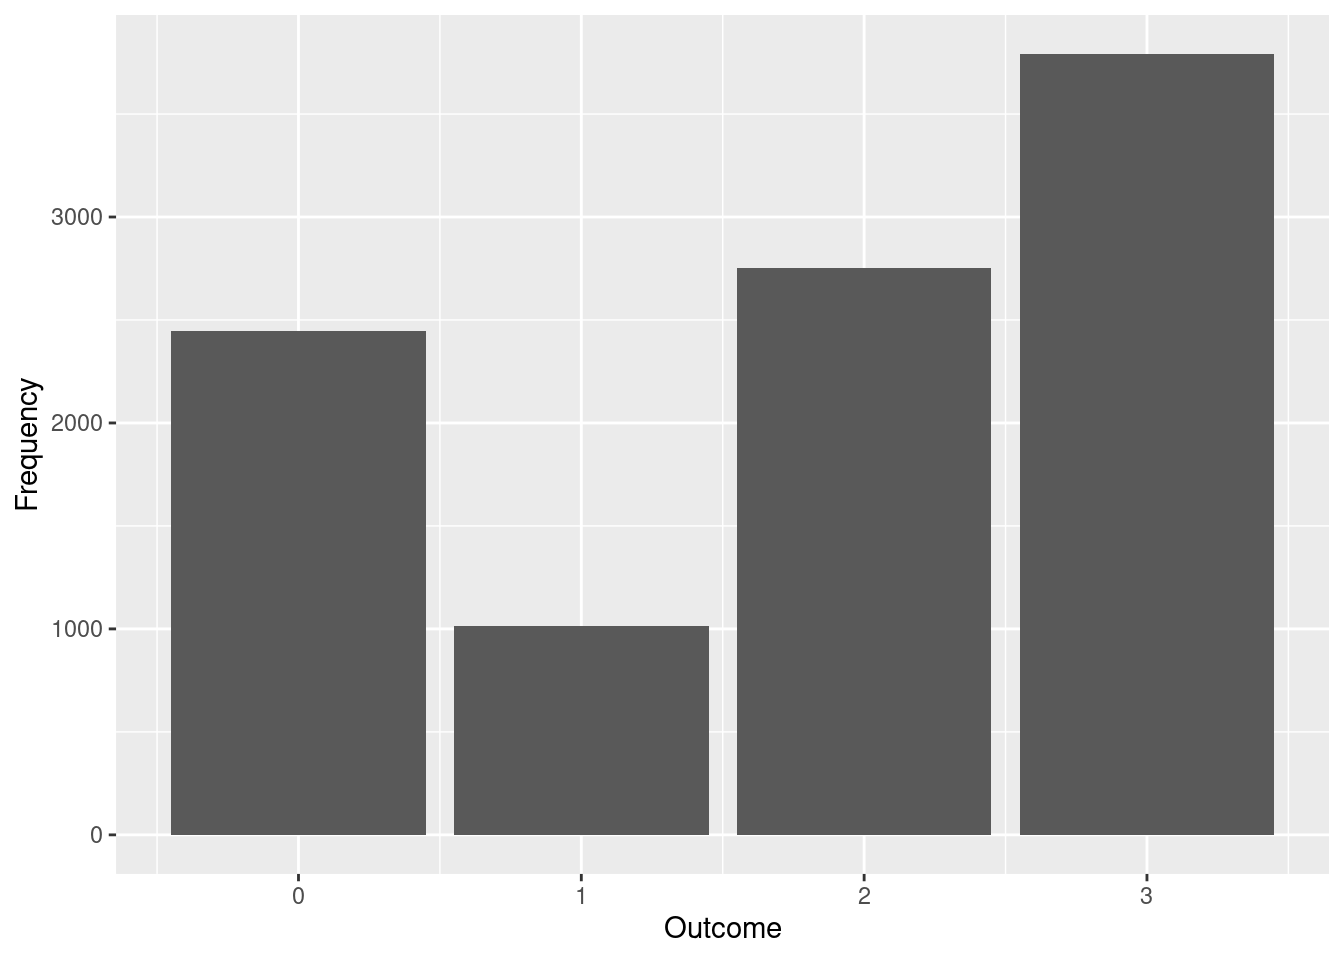
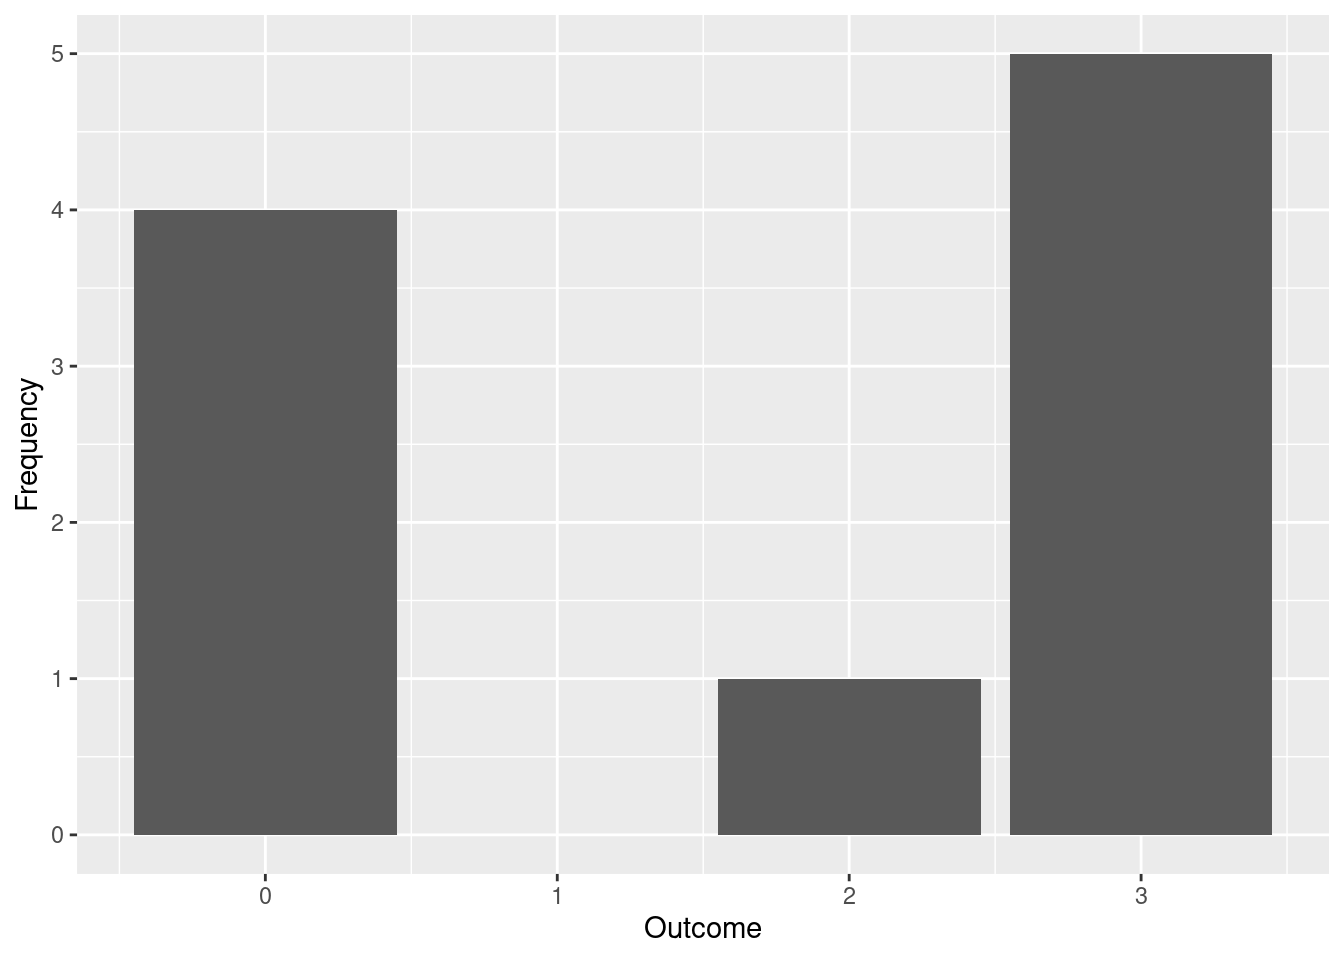
Fix typos in stats review. Replace sample with slice_sample.

diff --git a/docs/02-Statistics-Review.html b/docs/02-Statistics-Review.html
@@ -7,7 +7,7 @@
 <meta name="viewport" content="width=device-width, initial-scale=1.0, user-scalable=yes">
 
 
-<title>Introduction to Time Series Analysis 2023/2024 - 2&nbsp; Statistics Rerview</title>
+<title>Introduction to Time Series Analysis 2023/2024 - 2&nbsp; Statistics Review</title>
 <style>
 code{white-space: pre-wrap;}
 span.smallcaps{font-variant: small-caps;}
@@ -110,7 +110,7 @@ pre > code.sourceCode > span > a:first-child::before { text-decoration: underlin
       <button type="button" class="quarto-btn-toggle btn" data-bs-toggle="collapse" data-bs-target="#quarto-sidebar,#quarto-sidebar-glass" aria-controls="quarto-sidebar" aria-expanded="false" aria-label="Toggle sidebar navigation" onclick="if (window.quartoToggleHeadroom) { window.quartoToggleHeadroom(); }">
         <i class="bi bi-layout-text-sidebar-reverse"></i>
       </button>
-      <nav class="quarto-page-breadcrumbs" aria-label="breadcrumb"><ol class="breadcrumb"><li class="breadcrumb-item"><a href="./02-Statistics-Review.html"><span class="chapter-number">2</span>&nbsp; <span class="chapter-title">Statistics Rerview</span></a></li></ol></nav>
+      <nav class="quarto-page-breadcrumbs" aria-label="breadcrumb"><ol class="breadcrumb"><li class="breadcrumb-item"><a href="./02-Statistics-Review.html"><span class="chapter-number">2</span>&nbsp; <span class="chapter-title">Statistics Review</span></a></li></ol></nav>
       <a class="flex-grow-1" role="button" data-bs-toggle="collapse" data-bs-target="#quarto-sidebar,#quarto-sidebar-glass" aria-controls="quarto-sidebar" aria-expanded="false" aria-label="Toggle sidebar navigation" onclick="if (window.quartoToggleHeadroom) { window.quartoToggleHeadroom(); }">      
       </a>
       <button type="button" class="btn quarto-search-button" aria-label="" onclick="window.quartoOpenSearch();">
@@ -150,7 +150,7 @@ pre > code.sourceCode > span > a:first-child::before { text-decoration: underlin
         <li class="sidebar-item">
   <div class="sidebar-item-container"> 
   <a href="./02-Statistics-Review.html" class="sidebar-item-text sidebar-link active">
- <span class="menu-text"><span class="chapter-number">2</span>&nbsp; <span class="chapter-title">Statistics Rerview</span></span></a>
+ <span class="menu-text"><span class="chapter-number">2</span>&nbsp; <span class="chapter-title">Statistics Review</span></span></a>
   </div>
 </li>
         <li class="sidebar-item">
@@ -174,7 +174,7 @@ pre > code.sourceCode > span > a:first-child::before { text-decoration: underlin
   <li><a href="#joint-distribution" id="toc-joint-distribution" class="nav-link" data-scroll-target="#joint-distribution"><span class="header-section-number">2.3</span> Joint Distribution</a></li>
   <li><a href="#sampling-from-the-joint-distribution" id="toc-sampling-from-the-joint-distribution" class="nav-link" data-scroll-target="#sampling-from-the-joint-distribution"><span class="header-section-number">2.4</span> Sampling from the Joint Distribution</a></li>
   <li><a href="#joint-distribution-under-independence" id="toc-joint-distribution-under-independence" class="nav-link" data-scroll-target="#joint-distribution-under-independence"><span class="header-section-number">2.5</span> Joint Distribution under Independence</a></li>
-  <li><a href="#conditional-expectation" id="toc-conditional-expectation" class="nav-link" data-scroll-target="#conditional-expectation"><span class="header-section-number">2.6</span> Conditional Expectation</a></li>
+  <li><a href="#conditional-expectation-1" id="toc-conditional-expectation-1" class="nav-link" data-scroll-target="#conditional-expectation-1"><span class="header-section-number">2.6</span> Conditional Expectation</a></li>
   <li><a href="#covariance" id="toc-covariance" class="nav-link" data-scroll-target="#covariance"><span class="header-section-number">2.7</span> Covariance</a></li>
   </ul>
 </nav>
@@ -184,7 +184,7 @@ pre > code.sourceCode > span > a:first-child::before { text-decoration: underlin
 
 <header id="title-block-header" class="quarto-title-block default">
 <div class="quarto-title">
-<h1 class="title"><span class="chapter-number">2</span>&nbsp; <span class="chapter-title">Statistics Rerview</span></h1>
+<h1 class="title"><span class="chapter-number">2</span>&nbsp; <span class="chapter-title">Statistics Review</span></h1>
 </div>
 
 
@@ -285,7 +285,7 @@ p_Y(y) = \begin{cases}
 </div>
 <p>The probability functions sum to one over all possible values by definition:</p>
 <p><span class="math display">\[
-\sum_{x = 0}^{3}p_X(x) = 0.250 + 0.095 + 0.272 + 0.383 = 1\\
+\sum_{x = 0}^{3}p_X(x) = 0.250 + 0.095 + 0.272 + 0.383 = 1
 \]</span></p>
 <div class="cell">
 <div class="sourceCode cell-code" id="cb4"><pre class="sourceCode r code-with-copy"><code class="sourceCode r"><span id="cb4-1"><a href="#cb4-1" aria-hidden="true" tabindex="-1"></a><span class="fu">sum</span>(px<span class="sc">$</span>p)</span></code><button title="Copy to Clipboard" class="code-copy-button"><i class="bi"></i></button></pre></div>
@@ -296,41 +296,42 @@ p_Y(y) = \begin{cases}
 <div id="exm-sampling-x" class="theorem example">
 <p><span class="theorem-title"><strong>Example 2.1 (Samling from the distribution of <span class="math inline">\(X\)</span>) </strong></span>&nbsp;</p>
 <div class="cell">
-<div class="sourceCode cell-code" id="cb6"><pre class="sourceCode r code-with-copy"><code class="sourceCode r"><span id="cb6-1"><a href="#cb6-1" aria-hidden="true" tabindex="-1"></a><span class="fu">set.seed</span>(<span class="dv">12</span>)</span>
+<div class="sourceCode cell-code" id="cb6"><pre class="sourceCode r code-with-copy"><code class="sourceCode r"><span id="cb6-1"><a href="#cb6-1" aria-hidden="true" tabindex="-1"></a><span class="co"># set.seed(12)</span></span>
 <span id="cb6-2"><a href="#cb6-2" aria-hidden="true" tabindex="-1"></a></span>
-<span id="cb6-3"><a href="#cb6-3" aria-hidden="true" tabindex="-1"></a>smpl_x <span class="ot">&lt;-</span> <span class="fu">sample</span>(</span>
-<span id="cb6-4"><a href="#cb6-4" aria-hidden="true" tabindex="-1"></a>  <span class="fu">c</span>(<span class="dv">0</span>, <span class="dv">1</span>, <span class="dv">2</span>, <span class="dv">3</span>), </span>
-<span id="cb6-5"><a href="#cb6-5" aria-hidden="true" tabindex="-1"></a>  <span class="at">prob =</span> <span class="fu">c</span>(</span>
-<span id="cb6-6"><a href="#cb6-6" aria-hidden="true" tabindex="-1"></a>    <span class="fl">0.250</span>,</span>
-<span id="cb6-7"><a href="#cb6-7" aria-hidden="true" tabindex="-1"></a>    <span class="fl">0.095</span>,</span>
-<span id="cb6-8"><a href="#cb6-8" aria-hidden="true" tabindex="-1"></a>    <span class="fl">0.272</span>,</span>
-<span id="cb6-9"><a href="#cb6-9" aria-hidden="true" tabindex="-1"></a>    <span class="fl">0.383</span></span>
-<span id="cb6-10"><a href="#cb6-10" aria-hidden="true" tabindex="-1"></a>  ), </span>
-<span id="cb6-11"><a href="#cb6-11" aria-hidden="true" tabindex="-1"></a>  <span class="at">size =</span> <span class="dv">10000</span>, </span>
-<span id="cb6-12"><a href="#cb6-12" aria-hidden="true" tabindex="-1"></a>  <span class="at">replace =</span> <span class="cn">TRUE</span></span>
-<span id="cb6-13"><a href="#cb6-13" aria-hidden="true" tabindex="-1"></a>)</span>
-<span id="cb6-14"><a href="#cb6-14" aria-hidden="true" tabindex="-1"></a></span>
-<span id="cb6-15"><a href="#cb6-15" aria-hidden="true" tabindex="-1"></a><span class="fu">head</span>(smpl_x)</span></code><button title="Copy to Clipboard" class="code-copy-button"><i class="bi"></i></button></pre></div>
+<span id="cb6-3"><a href="#cb6-3" aria-hidden="true" tabindex="-1"></a>smpl_x <span class="ot">&lt;-</span> px <span class="sc">%&gt;%</span></span>
+<span id="cb6-4"><a href="#cb6-4" aria-hidden="true" tabindex="-1"></a>  <span class="fu">slice_sample</span>(<span class="at">n =</span> <span class="dv">10</span>, <span class="at">weight_by =</span> p, <span class="at">replace =</span> <span class="cn">TRUE</span>)</span>
+<span id="cb6-5"><a href="#cb6-5" aria-hidden="true" tabindex="-1"></a></span>
+<span id="cb6-6"><a href="#cb6-6" aria-hidden="true" tabindex="-1"></a><span class="fu">head</span>(smpl_x)</span></code><button title="Copy to Clipboard" class="code-copy-button"><i class="bi"></i></button></pre></div>
 <div class="cell-output cell-output-stdout">
-<pre><code>[1] 3 0 1 3 3 3</code></pre>
-</div>
-<div class="sourceCode cell-code" id="cb8"><pre class="sourceCode r code-with-copy"><code class="sourceCode r"><span id="cb8-1"><a href="#cb8-1" aria-hidden="true" tabindex="-1"></a><span class="fu">length</span>(smpl_x)</span></code><button title="Copy to Clipboard" class="code-copy-button"><i class="bi"></i></button></pre></div>
-<div class="cell-output cell-output-stdout">
-<pre><code>[1] 10000</code></pre>
+<pre><code># A tibble: 6 × 2
+      x     p
+  &lt;dbl&gt; &lt;dbl&gt;
+1     3 0.383
+2     0 0.25 
+3     0 0.25 
+4     3 0.383
+5     3 0.383
+6     3 0.383</code></pre>
 </div>
 </div>
 <p>It is useful to visualize the observed frequency of each outcome.</p>
 <div class="cell">
-<div class="sourceCode cell-code" id="cb10"><pre class="sourceCode r code-with-copy"><code class="sourceCode r"><span id="cb10-1"><a href="#cb10-1" aria-hidden="true" tabindex="-1"></a><span class="fu">table</span>(smpl_x)</span></code><button title="Copy to Clipboard" class="code-copy-button"><i class="bi"></i></button></pre></div>
+<div class="sourceCode cell-code" id="cb8"><pre class="sourceCode r code-with-copy"><code class="sourceCode r"><span id="cb8-1"><a href="#cb8-1" aria-hidden="true" tabindex="-1"></a><span class="fu">table</span>(smpl_x<span class="sc">$</span>x)</span></code><button title="Copy to Clipboard" class="code-copy-button"><i class="bi"></i></button></pre></div>
 <div class="cell-output cell-output-stdout">
-<pre><code>smpl_x
-   0    1    2    3 
-2445 1012 2750 3793 </code></pre>
+<pre><code>
+0 2 3 
+4 1 5 </code></pre>
+</div>
+<div class="sourceCode cell-code" id="cb10"><pre class="sourceCode r code-with-copy"><code class="sourceCode r"><span id="cb10-1"><a href="#cb10-1" aria-hidden="true" tabindex="-1"></a><span class="fu">table</span>(smpl_x<span class="sc">$</span>x) <span class="sc">/</span> <span class="fu">nrow</span>(smpl_x)</span></code><button title="Copy to Clipboard" class="code-copy-button"><i class="bi"></i></button></pre></div>
+<div class="cell-output cell-output-stdout">
+<pre><code>
+  0   2   3 
+0.4 0.1 0.5 </code></pre>
 </div>
 </div>
 <div class="cell">
-<div class="sourceCode cell-code" id="cb12"><pre class="sourceCode r code-with-copy"><code class="sourceCode r"><span id="cb12-1"><a href="#cb12-1" aria-hidden="true" tabindex="-1"></a><span class="fu">tibble</span>(smpl_x) <span class="sc">%&gt;%</span></span>
-<span id="cb12-2"><a href="#cb12-2" aria-hidden="true" tabindex="-1"></a>  <span class="fu">ggplot</span>(<span class="fu">aes</span>(<span class="at">x =</span> smpl_x)) <span class="sc">+</span> </span>
+<div class="sourceCode cell-code" id="cb12"><pre class="sourceCode r code-with-copy"><code class="sourceCode r"><span id="cb12-1"><a href="#cb12-1" aria-hidden="true" tabindex="-1"></a>smpl_x <span class="sc">%&gt;%</span></span>
+<span id="cb12-2"><a href="#cb12-2" aria-hidden="true" tabindex="-1"></a>  <span class="fu">ggplot</span>(<span class="fu">aes</span>(<span class="at">x =</span> x)) <span class="sc">+</span> </span>
 <span id="cb12-3"><a href="#cb12-3" aria-hidden="true" tabindex="-1"></a>    <span class="fu">geom_bar</span>() <span class="sc">+</span> </span>
 <span id="cb12-4"><a href="#cb12-4" aria-hidden="true" tabindex="-1"></a>    <span class="fu">labs</span>(</span>
 <span id="cb12-5"><a href="#cb12-5" aria-hidden="true" tabindex="-1"></a>      <span class="at">x =</span> <span class="st">"Outcome"</span>,</span>
@@ -399,8 +400,8 @@ L(x) = (x - 1)^2 =
 </section>
 <section id="variance" class="level2" data-number="2.2">
 <h2 data-number="2.2" class="anchored" data-anchor-id="variance"><span class="header-section-number">2.2</span> Variance</h2>
-<p>The variance of a random variable measures how different are (XXX) the possible values that can occur. It is the expected value of the squared diviations from the expected value.</p>
-<p><span class="math display">\[
+<p>The variance of a random variable measures how different the possible values that can occur are. Values that occur more often (have higher probability) under <span class="math inline">\(p_X\)</span> receive a higher weight. Values that occur less frequently under <span class="math inline">\(p_X\)</span> are given a lower weight in the sum.</p>
+<p><span id="eq-variance"><span class="math display">\[
 \begin{align}
 Var(X) &amp; = \sum_{x = 0}^{3} (x - \mu_x)^2 \times p_X(x) \\
        &amp; = (0 - 1.788)^2 \times 0.250 + (1 - 1.788)^2 \times 0.095 + (2 - 1.788)^2\times 0.272 + (3 - 1.788)^2 \times 0.383 \\
@@ -408,7 +409,7 @@ Var(X) &amp; = \sum_{x = 0}^{3} (x - \mu_x)^2 \times p_X(x) \\
        &amp; = 3.196 \times 0.250 + 0.620^2 \times 0.095 + 0.044 \times 0.272 + 1.468 \times 0.383 \\
        &amp; \approx 1.433
 \end{align}
-\]</span></p>
+\tag{2.1}\]</span></span></p>
 <div class="cell">
 <div class="sourceCode cell-code" id="cb18"><pre class="sourceCode r code-with-copy"><code class="sourceCode r"><span id="cb18-1"><a href="#cb18-1" aria-hidden="true" tabindex="-1"></a>(px<span class="sc">$</span>x <span class="sc">-</span> mu_x)</span></code><button title="Copy to Clipboard" class="code-copy-button"><i class="bi"></i></button></pre></div>
 <div class="cell-output cell-output-stdout">
@@ -427,6 +428,10 @@ Var(X) &amp; = \sum_{x = 0}^{3} (x - \mu_x)^2 \times p_X(x) \\
 <pre><code>[1] 1.433056</code></pre>
 </div>
 </div>
+<p>You can see from <a href="#eq-variance">Equation&nbsp;<span>2.1</span></a> that it is the expected value of the squared diviations from the expected value.</p>
+<p><span class="math display">\[
+Var(X) = E(X - E(X))^2
+\]</span></p>
 <div id="exr-variance" class="theorem exercise">
 <p><span class="theorem-title"><strong>Exercise 2.4 (Variance) </strong></span>Compute the Variance of <span class="math inline">\(Y\)</span>.</p>
 </div>
@@ -435,9 +440,6 @@ Var(X) &amp; = \sum_{x = 0}^{3} (x - \mu_x)^2 \times p_X(x) \\
 <div class="cell">
 <div class="sourceCode cell-code" id="cb26"><pre class="sourceCode r code-with-copy"><code class="sourceCode r"><span id="cb26-1"><a href="#cb26-1" aria-hidden="true" tabindex="-1"></a><span class="co"># Type your code here</span></span></code><button title="Copy to Clipboard" class="code-copy-button"><i class="bi"></i></button></pre></div>
 </div>
-<p><span class="math display">\[
-Var(Y) = ?
-\]</span></p>
 </div>
 <div id="thm-exp-value-props" class="theorem">
 <p><span class="theorem-title"><strong>Theorem 2.1 (Properties of the Expectation) </strong></span>Let <span class="math inline">\(X\)</span> be a random variable with expected value <span class="math inline">\(E(X)\)</span>, let <span class="math inline">\(Y\)</span> be a random variable with expected value <span class="math inline">\(E(Y)\)</span>, and let <span class="math inline">\(a\)</span> be a fixed constant (<span class="math inline">\(a \in \mathbb{R}\)</span>). The following properties are true:</p>
@@ -454,7 +456,7 @@ E(XY) = E(X)E(Y)
 \]</span></p>
 </div>
 <div id="thm-variance-short" class="theorem">
-<p><span class="theorem-title"><strong>Theorem 2.2 (Variance Formula) </strong></span>Let <span class="math inline">\(X\)</span> be a random variable with expected value <span class="math inline">\(E(X)\)</span>, let <span class="math inline">\(Y\)</span> be a random variable with expected value <span class="math inline">\(E(Y)\)</span>, and let <span class="math inline">\(a\)</span> be a fixed constant (<span class="math inline">\(a \in \mathbb{R}\)</span>). The following properties are true:</p>
+<p><span class="theorem-title"><strong>Theorem 2.2 (Properties of the Variance) </strong></span>Let <span class="math inline">\(X\)</span> be a random variable with expected value <span class="math inline">\(E(X)\)</span>, let <span class="math inline">\(Y\)</span> be a random variable with expected value <span class="math inline">\(E(Y)\)</span>, and let <span class="math inline">\(a\)</span> be a fixed constant (<span class="math inline">\(a \in \mathbb{R}\)</span>). The following properties are true:</p>
 <p><span class="math display">\[
 Var(X) = E(X^2) - E(X)^2
 \]</span></p>
@@ -618,11 +620,11 @@ p_{XY}(x=2, y=3) = 0.043
       x     y     p
   &lt;dbl&gt; &lt;dbl&gt; &lt;dbl&gt;
 1     2     2 0.229
-2     3     3 0.182
-3     0     2 0.241
-4     3     2 0.201
-5     3     2 0.201
-6     3     2 0.201</code></pre>
+2     0     2 0.241
+3     3     3 0.182
+4     3     3 0.182
+5     3     3 0.182
+6     3     3 0.182</code></pre>
 </div>
 </div>
 <div class="cell">
@@ -642,14 +644,14 @@ argument.</code></pre>
 # Groups:   x [4]
       x     y     p     n     f
   &lt;dbl&gt; &lt;dbl&gt; &lt;dbl&gt; &lt;int&gt; &lt;dbl&gt;
-1     0     2 0.241   250 0.25 
+1     0     2 0.241   240 0.24 
 2     0     3 0.009     4 0.004
-3     1     2 0.089   100 0.1  
-4     1     3 0.006     6 0.006
-5     2     2 0.229   200 0.2  
-6     2     3 0.043    46 0.046
-7     3     2 0.201   209 0.209
-8     3     3 0.182   185 0.185</code></pre>
+3     1     2 0.089    83 0.083
+4     1     3 0.006     3 0.003
+5     2     2 0.229   229 0.229
+6     2     3 0.043    33 0.033
+7     3     2 0.201   210 0.21 
+8     3     3 0.182   198 0.198</code></pre>
 </div>
 </div>
 </section>
@@ -719,13 +721,13 @@ p_{XY}(x, y) = p_X(x)p_Y(y)
 </div>
 </div>
 <p>Let’s look at the <em>conditional</em> distributions of <span class="math inline">\(Y\)</span> given <span class="math inline">\(X\)</span>. These answer the questions of the type: if <span class="math inline">\(X\)</span> turns out to be <span class="math inline">\(0\)</span>, what are the probabilities for <span class="math inline">\(Y = 2\)</span> and <span class="math inline">\(Y = 3\)</span>.</p>
-<div id="exr-conditional-y" class="theorem exercise">
-<p><span class="theorem-title"><strong>Exercise 2.6 (Conditional Distribution) </strong></span>Compute the conditional distribution of <span class="math inline">\(Y\)</span>, given <span class="math inline">\(X = 0\)</span>.</p>
-<p><span class="math display">\[
-p_{Y|X=0}(y) = ?
-\]</span></p>
-</div>
 <p>To get the conditional distributions of Y for each possible value of <span class="math inline">\(X\)</span> we divide the cells of the joint distribution table by the marginal probabilities of each <span class="math inline">\(x\)</span>.</p>
+<p><span class="math display">\[
+p_{Y|X}(x, y) = \frac{p_{XY}(x, y)}{p_X(x)}
+\]</span> The marginal distribution of <span class="math inline">\(X\)</span> is obtained by summing the joint distribution of <span class="math inline">\(X\)</span> and <span class="math inline">\(Y\)</span> over all possible values of <span class="math inline">\(Y\)</span>.</p>
+<p><span class="math display">\[
+p_X(x) = \sum_{y=2}^{3}p_{XY}(x, y)
+\]</span></p>
 <div class="cell">
 <div class="sourceCode cell-code" id="cb38"><pre class="sourceCode r code-with-copy"><code class="sourceCode r"><span id="cb38-1"><a href="#cb38-1" aria-hidden="true" tabindex="-1"></a>pxy_ind_w <span class="sc">%&gt;%</span></span>
 <span id="cb38-2"><a href="#cb38-2" aria-hidden="true" tabindex="-1"></a>  <span class="fu">mutate</span>(</span>
@@ -776,7 +778,7 @@ p_{Y|X=0}(y) = ?
 </div>
 </div>
 </div>
-<p>What you should see in <span class="quarto-unresolved-ref">?tbl-xy-distr-ind</span> is that the conditional distributions of <span class="math inline">\(Y\)</span> are the same for every possible value of <span class="math inline">\(X\)</span>. This is of course a consequence of the way we constructed this joint distribution in the first place: namely, we assumed that <span class="math inline">\(X\)</span> and <span class="math inline">\(Y\)</span> are independent.</p>
+<p>What you should see in <a href="#tbl-xy-distr-ind-w">Table&nbsp;<span>2.5</span></a> is that the conditional distributions of <span class="math inline">\(Y\)</span> are the same for every possible value of <span class="math inline">\(X\)</span>. This is of course a consequence of the way we constructed this joint distribution in the first place: namely, we assumed that <span class="math inline">\(X\)</span> and <span class="math inline">\(Y\)</span> are independent.</p>
 <p>Next, we construct the conditional distributions of <span class="math inline">\(Y\)</span> given <span class="math inline">\(X\)</span> for the dependent case.</p>
 <div class="cell">
 <div class="sourceCode cell-code" id="cb39"><pre class="sourceCode r code-with-copy"><code class="sourceCode r"><span id="cb39-1"><a href="#cb39-1" aria-hidden="true" tabindex="-1"></a>pxy_w <span class="ot">&lt;-</span> pxy <span class="sc">%&gt;%</span></span>
@@ -837,12 +839,15 @@ p_{Y|X=0}(y) = ?
 </div>
 </div>
 <p>Looking at the conditional distributions of <span class="math inline">\(Y\)</span> given <span class="math inline">\(X\)</span> in <a href="#tbl-cond-distr-y-dep-x">Table&nbsp;<span>2.6</span></a>, you should notice that these are not the same for each value of <span class="math inline">\(X\)</span>. For example, <span class="math inline">\(Y=2\)</span> is much more likely when <span class="math inline">\(X = 0\)</span> compared to <span class="math inline">\(X = 3\)</span>.</p>
-<div id="exr-conditional-y" class="theorem exercise">
-<p><span class="theorem-title"><strong>Exercise 2.7 </strong></span>What are the conditional distributions of <span class="math inline">\(X\)</span> given <span class="math inline">\(Y\)</span>?</p>
+<div id="exr-conditional-exp" class="theorem exercise">
+<p><span class="theorem-title"><strong>Exercise 2.6 (Conditional Expectation) </strong></span>Compute the expectation of <span class="math inline">\(Y\)</span>, given <span class="math inline">\(X = 0\)</span> using the distribution in <a href="#tbl-cond-distr-y-dep-x">Table&nbsp;<span>2.6</span></a>. For which value of <span class="math inline">\(X\)</span> is the condtitional expectation of <span class="math inline">\(Y\)</span> greatest?</p>
+<p><span class="math display">\[
+E(Y|X=0) = ?
+\]</span></p>
 </div>
 </section>
-<section id="conditional-expectation" class="level2" data-number="2.6">
-<h2 data-number="2.6" class="anchored" data-anchor-id="conditional-expectation"><span class="header-section-number">2.6</span> Conditional Expectation</h2>
+<section id="conditional-expectation-1" class="level2" data-number="2.6">
+<h2 data-number="2.6" class="anchored" data-anchor-id="conditional-expectation-1"><span class="header-section-number">2.6</span> Conditional Expectation</h2>
 <p>We have seen how we derived the conditional distributions of <span class="math inline">\(Y\)</span> given <span class="math inline">\(X\)</span> in the previous section. Now we can ask the question: what is the expected value of <span class="math inline">\(Y\)</span> given that <span class="math inline">\(X\)</span> has already turned out to be 0 (for example). We can take the conditional distribution of <span class="math inline">\(Y\)</span> given <span class="math inline">\(X = 0\)</span> and compute the expected value of this distribution.</p>
 <p>For the joint distribution under independence:</p>
 <p><span class="math display">\[
@@ -906,7 +911,7 @@ argument.</code></pre>
 </div>
 <p>An important thing to see here is that the conditional expectation is different for each value of <span class="math inline">\(X\)</span>. As the value of <span class="math inline">\(X\)</span> is uncertain (it is a random variable), the conditional expectation of <span class="math inline">\(Y\)</span> given <span class="math inline">\(X\)</span> is also a random variable. Its distribution is given by the possible values and the probabilities of occurrence of <span class="math inline">\(X\)</span> (the marginal distribution of <span class="math inline">\(X\)</span>).</p>
 <div id="exr-cond-exp-ind" class="theorem exercise">
-<p><span class="theorem-title"><strong>Exercise 2.8 </strong></span>Calculate the expected value of <span class="math inline">\(Y\)</span> given <span class="math inline">\(X\)</span> for every possible value of <span class="math inline">\(X\)</span> in the case joint distribution under independence (XXX).</p>
+<p><span class="theorem-title"><strong>Exercise 2.7 </strong></span>Calculate the expected value of <span class="math inline">\(Y\)</span> given <span class="math inline">\(X\)</span> for every possible value of <span class="math inline">\(X\)</span> in the case joint distribution under independence.</p>
 </div>
 </section>
 <section id="covariance" class="level2" data-number="2.7">
@@ -938,10 +943,10 @@ Var(aX + bY) = a^2 Var(X) + b^2Var(Y) + 2abCov(X, Y)
 \]</span></p>
 </div>
 <div id="exr-covariance" class="theorem exercise">
-<p><span class="theorem-title"><strong>Exercise 2.9 (Covariance) </strong></span>Compute the covariance of <span class="math inline">\(X\)</span> and <span class="math inline">\(Y\)</span> under the joint distributions given in <a href="#tbl-distr-indep">Table&nbsp;<span>2.4</span></a> and <a href="#tbl-distr-dep">Table&nbsp;<span>2.3</span></a>.</p>
+<p><span class="theorem-title"><strong>Exercise 2.8 (Covariance) </strong></span>Compute the covariance of <span class="math inline">\(X\)</span> and <span class="math inline">\(Y\)</span> under the joint distributions given in <a href="#tbl-distr-indep">Table&nbsp;<span>2.4</span></a> and <a href="#tbl-distr-dep">Table&nbsp;<span>2.3</span></a>.</p>
 </div>
 <div id="exr-covariance-corr" class="theorem exercise">
-<p><span class="theorem-title"><strong>Exercise 2.10 (Variance of Correlated Variables) </strong></span>Compute the variance of <span class="math inline">\(2X - Y\)</span> using the same distributions as in <a href="#exr-covariance">Exercise&nbsp;<span>2.9</span></a></p>
+<p><span class="theorem-title"><strong>Exercise 2.9 (Variance of Correlated Variables) </strong></span>Compute the variance of <span class="math inline">\(2X - Y\)</span> using the same distributions as in <a href="#exr-covariance">Exercise&nbsp;<span>2.8</span></a></p>
 </div>
 
 
